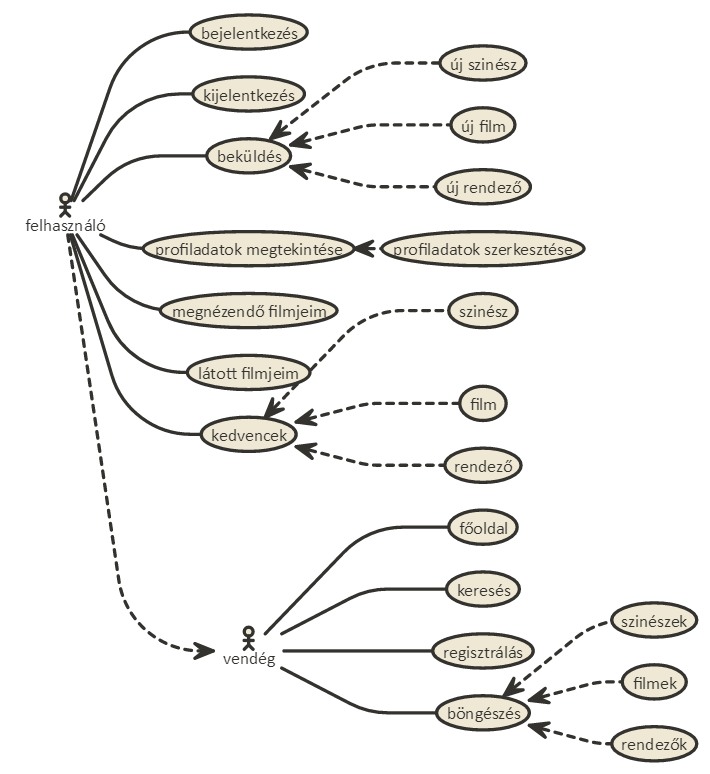
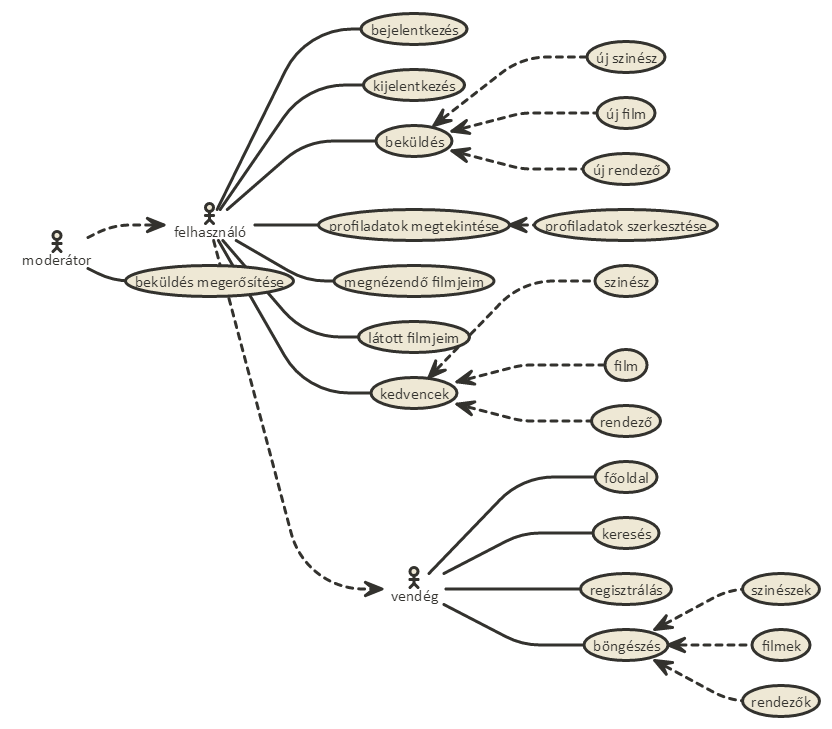
readme modositas

diff --git a/README.md b/README.md
@@ -1,6 +1,9 @@
-"# af_bead" 
+#Alkalmazások fejlesztése beadnadó
+------
+####Szőke Roland
+####RB3KOR
 
-#FilmZ
+#Movie5
 
 ##Rövid leírás
 Az projekt célja egy olyan webes alkalmazás készítése, mely felhasználóbarátan segíti a film fanatikusokat a tapasztalataik rendszerezésében filmkeről, színészekről vagy rendezőkről.
@@ -10,42 +13,42 @@ Középpontban szerepel a regisztrált felhasználók profilja, amit folyamatosa
 ------
 
 ###Funkcionális követelmények
-*Vendégként a főoldalon a regisztráció fogadjon, rövid oldal ismertetővel.
-*Vendégként szeretnék a filmek, szinészek, rendezők között szabadon böngészni.
-*Vendégként szeretnék részletes leírásokat megtekinteni.
-*Vendégként szeretnék filmeket, szinészeket, rendezőket keresni.
-*Vendégként szeretnék tudni regisztrálni az oldalra.
+* Vendégként a főoldalon a regisztráció fogadjon, rövid oldal ismertetővel, ingyen sörrel.
+* Vendégként szeretnék a filmek, szinészek, rendezők között szabadon böngészni.
+* Vendégként szeretnék részletes leírásokat megtekinteni.
+* Vendégként szeretnék filmeket, szinészeket, rendezőket keresni.
+* Vendégként szeretnék tudni regisztrálni az oldalra.
 
-*Felhasználóként szeretnék tudni bejelentkezni az oldalra.
-*Felhasználóként szeretném tudni a profiladataimat szerkeszteni.
-*Felhasználóként szeretnék új filmeket, szinészeket vagy rendezőket beküldeni, amennyiben még nem létezik létrehozott oldal nekik.
-*Felhasználóként szeretném a filmeket a "Megnézendő" listámhoz adni.
-*Felhasználóként szeretném a megtekintett filmeimet, ismert szinészeket, rendezőket külön listában rendszerezni, értékelni, rövid kritikát/észrevétel fűzni hozzájuk, kedvencekhez csatolni.
+* Felhasználóként szeretnék tudni bejelentkezni az oldalra.
+* Felhasználóként szeretném tudni a profiladataimat szerkeszteni.
+* Felhasználóként szeretnék új filmeket, szinészeket vagy rendezőket beküldeni, amennyiben még nem létezik létrehozott oldal nekik.
+* Felhasználóként szeretném a filmeket a "Megnézendő" listámhoz adni.
+* Felhasználóként szeretném a megtekintett filmeimet, ismert szinészeket, rendezőket külön listában rendszerezni, értékelni, rövid kritikát/észrevétel fűzni hozzájuk, kedvencekhez csatolni.
+
+* Moderátorként szeretném tudni megerősíteni a beküldött, az oldalon még nem szereplő szinészeket, filmeket vagy rendezőket.
 
 ###Nem funkcionális követelmények
-*Felhasználóbarát, ergonomikus elrendezés és kinézet.
-*Gyors működés.
-*Biztonságos működés: jelszavak tárolása, funkciókhoz való hozzáférés.
+* Felhasználóbarát, ergonomikus elrendezés és kinézet.
+* Gyors működés.
+* Biztonságos működés: jelszavak tárolása, funkciókhoz való hozzáférés.
 
 ###Szakterületi fogalomjegyzék
-*Szinész: személy, aki szerepet játszik művészeti produkcióban
-*Rendező: személy, egy film művészeti és dramatikus részeinek elkészítését vezeti
-*Film: információs, ismeretterjesztő, szórakoztatási és művészeti célú médium
+* Szinész: személy, aki szerepet játszik művészeti produkcióban
+* Rendező: személy, egy film művészeti és dramatikus részeinek elkészítését vezeti
+* Film: információs, ismeretterjesztő, szórakoztatási és művészeti célú médium
 
 ###Szerepkörök
-*vendég:filmek, rendezők, szinészek bengőszése és megtekintése
-*felhasználó: a vendég szerepkörén túl képes új filmeket, rendezőket, szinészeket beküldeni, saját listába rendezni a már meglévőket, megjegyzéseket fűzni hozzájuk
+* vendég: filmek, rendezők, szinészek bengőszése és megtekintése
+* felhasználó: a vendég szerepkörén túl képes új filmeket, rendezőket, szinészeket beküldeni, saját listába rendezni a már meglévőket, megjegyzéseket fűzni hozzájuk
+* moderátor: a felhasználó szerepkörén túl képes megerősíteni beküldött filmeket, szinészeket vagy rendezőket
 
 ###Használati esetek
 ![Használati eset diagram](images/hasznalati.png)
 
-###Folyamatok meghatározása
--felhasználó
-    +![Új beküldés folyamata](images/bekuldes.png)
-    +![Bejelentkezés folyamata](images/bejelentkezes.png)
--vendég
-    +keresés...
-    +regisztrálás...
+###Példa folyamatok meghatározása
+- felhasználó
+    + ![Új beküldés folyamata](images/bekuldes.png)
+    + ![Bejelentkezés folyamata](images/bejelentkezes.png)
 
 ##Tervezés
 ------
@@ -80,35 +83,38 @@ Felhasználói:
 - Megnézendő filmek
 - Megtekintett filmek
 
+Moderátor:
+- Beküldések megtekintése
+
 ###Végpontok
-*GET /: főoldal
-*GET /login: bejelentkező oldal
-*POST /login: bejelentkezési adatok felküldése
-*GET /profile: profiladatok
-*GET /profile/change: profiladatok módosítása, űrlap megjelenítése
-*POST /profile/change: profiladatok módosítása, adatok küldése
-*GET /movies: film lista
-*GET /actors: szinész lista
-*GET /directors: rendező lista
-*GET /movies/:id: film megtekintése
-*GET /actors/:id: szinész megtekintése
-*GET /directors/:id: rendező megtekintése
-*GET /movies/create: új film felvitele, űrlap megjelenítése
-*POST /movies/create: új film felvitele, adatok küldése
-*GET /actors/create: új szinész felvitele, űrlap megjelenítése
-*POST /actors/create: új szinész felvitele, adatok küldése
-*GET /directors/create: új rendező felvitele, űrlap megjelenítése
-*POST /directors/create: új rendező felvitele, adatok küldése
-*GET /favorites/movies: kedvenc filmek
-*GET /favorites/actor: kedvenc szinészek
-*GET /favorites/directors: kedvenc rendezők
-*GET /seen/movies: látott filmek
-*GET /tosee/actor: megnézendő filmek
+* GET /: főoldal
+* GET /login: bejelentkező oldal
+* POST /login: bejelentkezési adatok felküldése
+* GET /profile: profiladatok
+* GET /profile/change: profiladatok módosítása, űrlap megjelenítése
+* POST /profile/change: profiladatok módosítása, adatok küldése
+* GET /movies: film lista
+* GET /actors: szinész lista
+* GET /directors: rendező lista
+* GET /movies/:id: film megtekintése
+* GET /actors/:id: szinész megtekintése
+* GET /directors/:id: rendező megtekintése
+* GET /movies/create: új film felvitele, űrlap megjelenítése
+* POST /movies/create: új film felvitele, adatok küldése
+* GET /actors/create: új szinész felvitele, űrlap megjelenítése
+* POST /actors/create: új szinész felvitele, adatok küldése
+* GET /directors/create: új rendező felvitele, űrlap megjelenítése
+* POST /directors/create: új rendező felvitele, adatok küldése
+* GET /favorites/movies: kedvenc filmek
+* GET /favorites/actor: kedvenc szinészek
+* GET /favorites/directors: kedvenc rendezők
+* GET /seen/movies: látott filmek
+* GET /tosee/actor: megnézendő filmek
 
 ###Oldalvázlat
-*![Főoldal](images/Main.png)
-*![Böngészés](images/bongesz.png)
-*![Beküldés](images/bekuldesvazlat.png)
+![Főoldal](images/Main.jpg)
+![Böngészés](images/bongesz.jpg)
+![Beküldés](images/bekuldesvazlat.jpg)
 
 ###Adatmodell
-*![Adatmodell](images/adatmodell.png)
+![Adatmodell](images/adatmodell.png)
